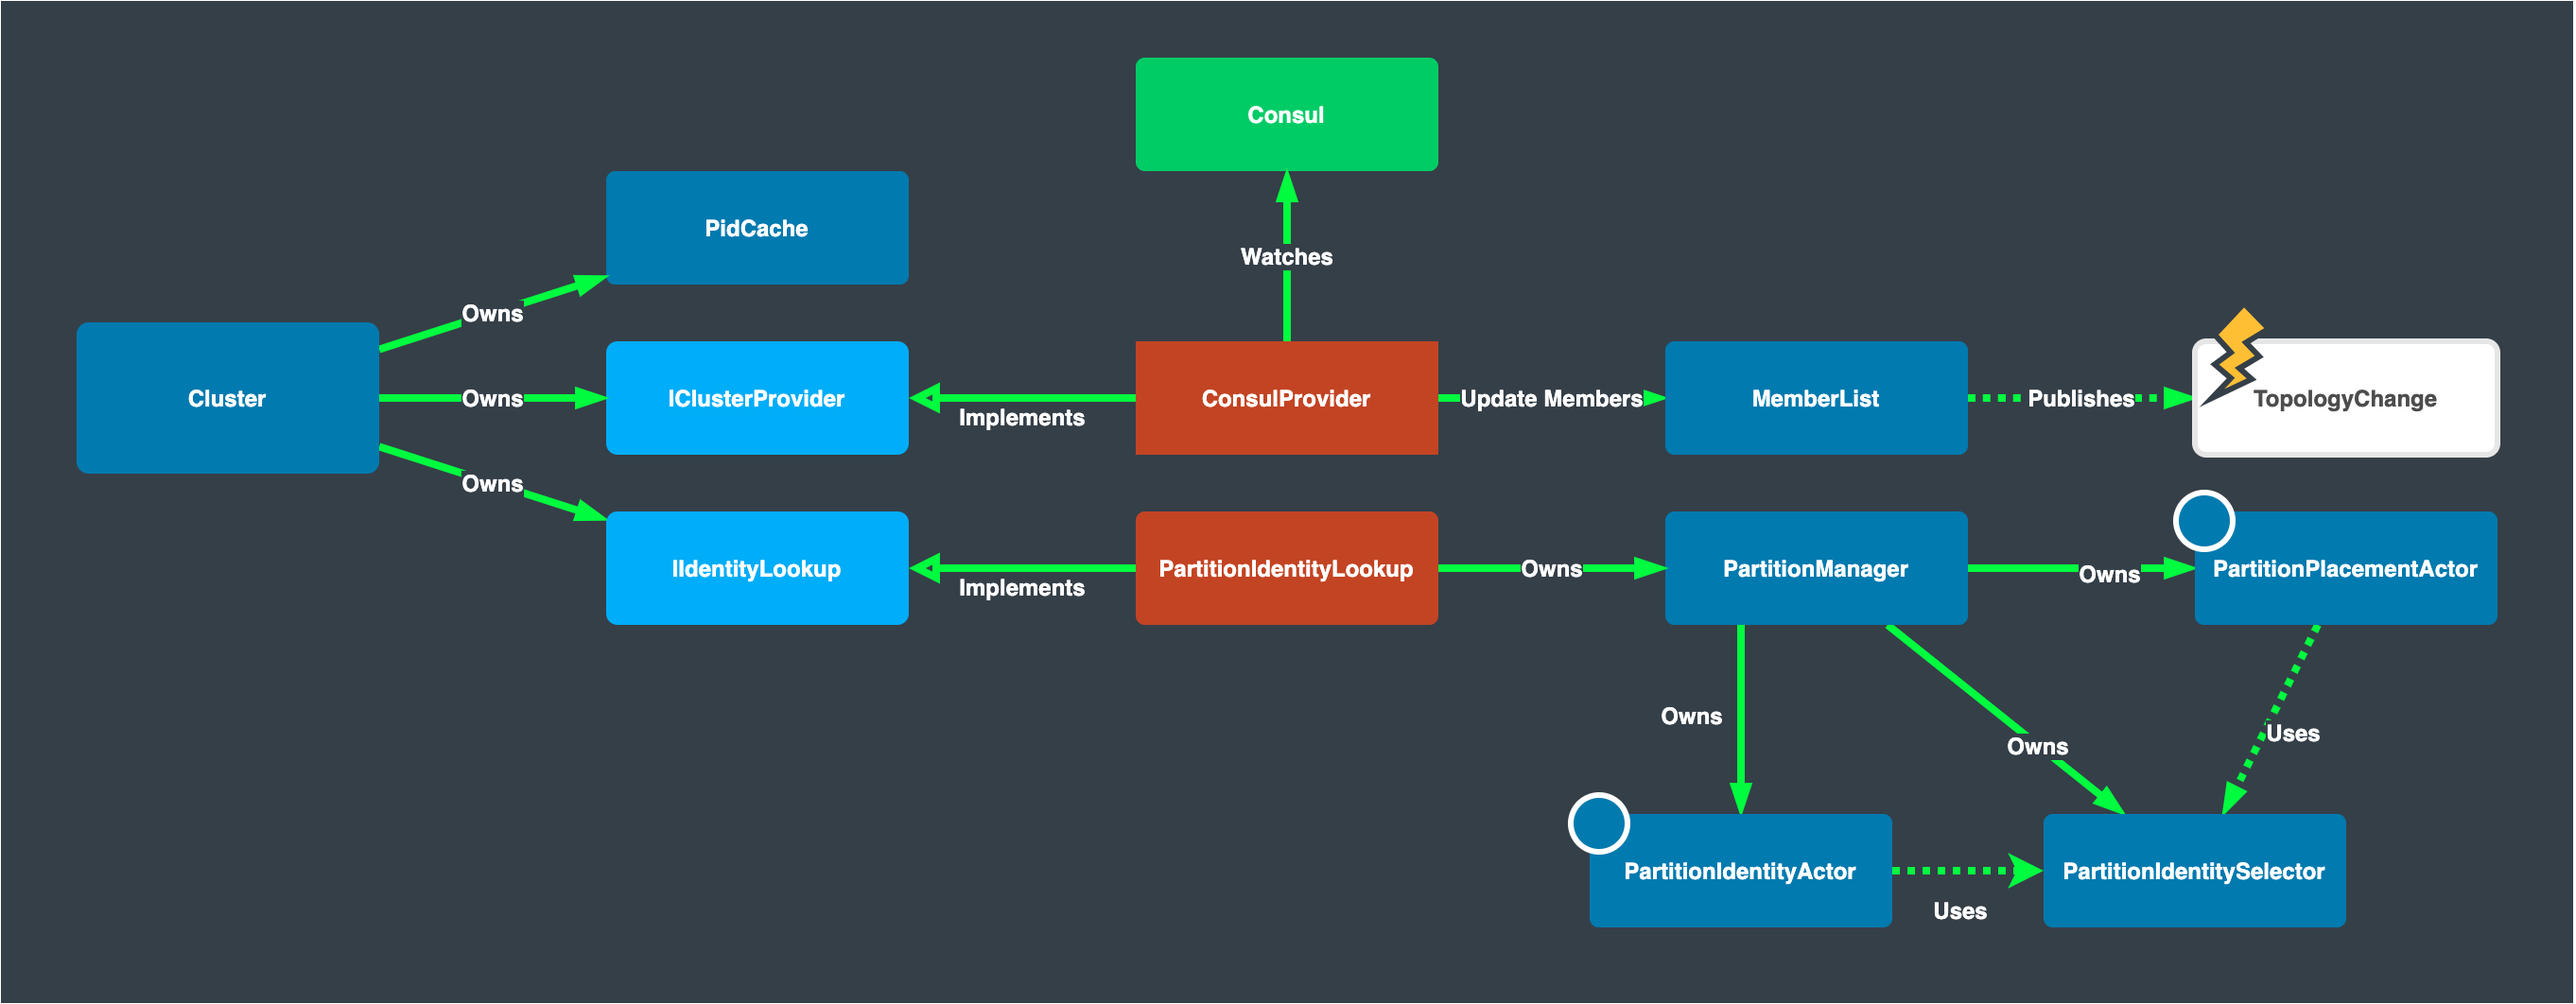
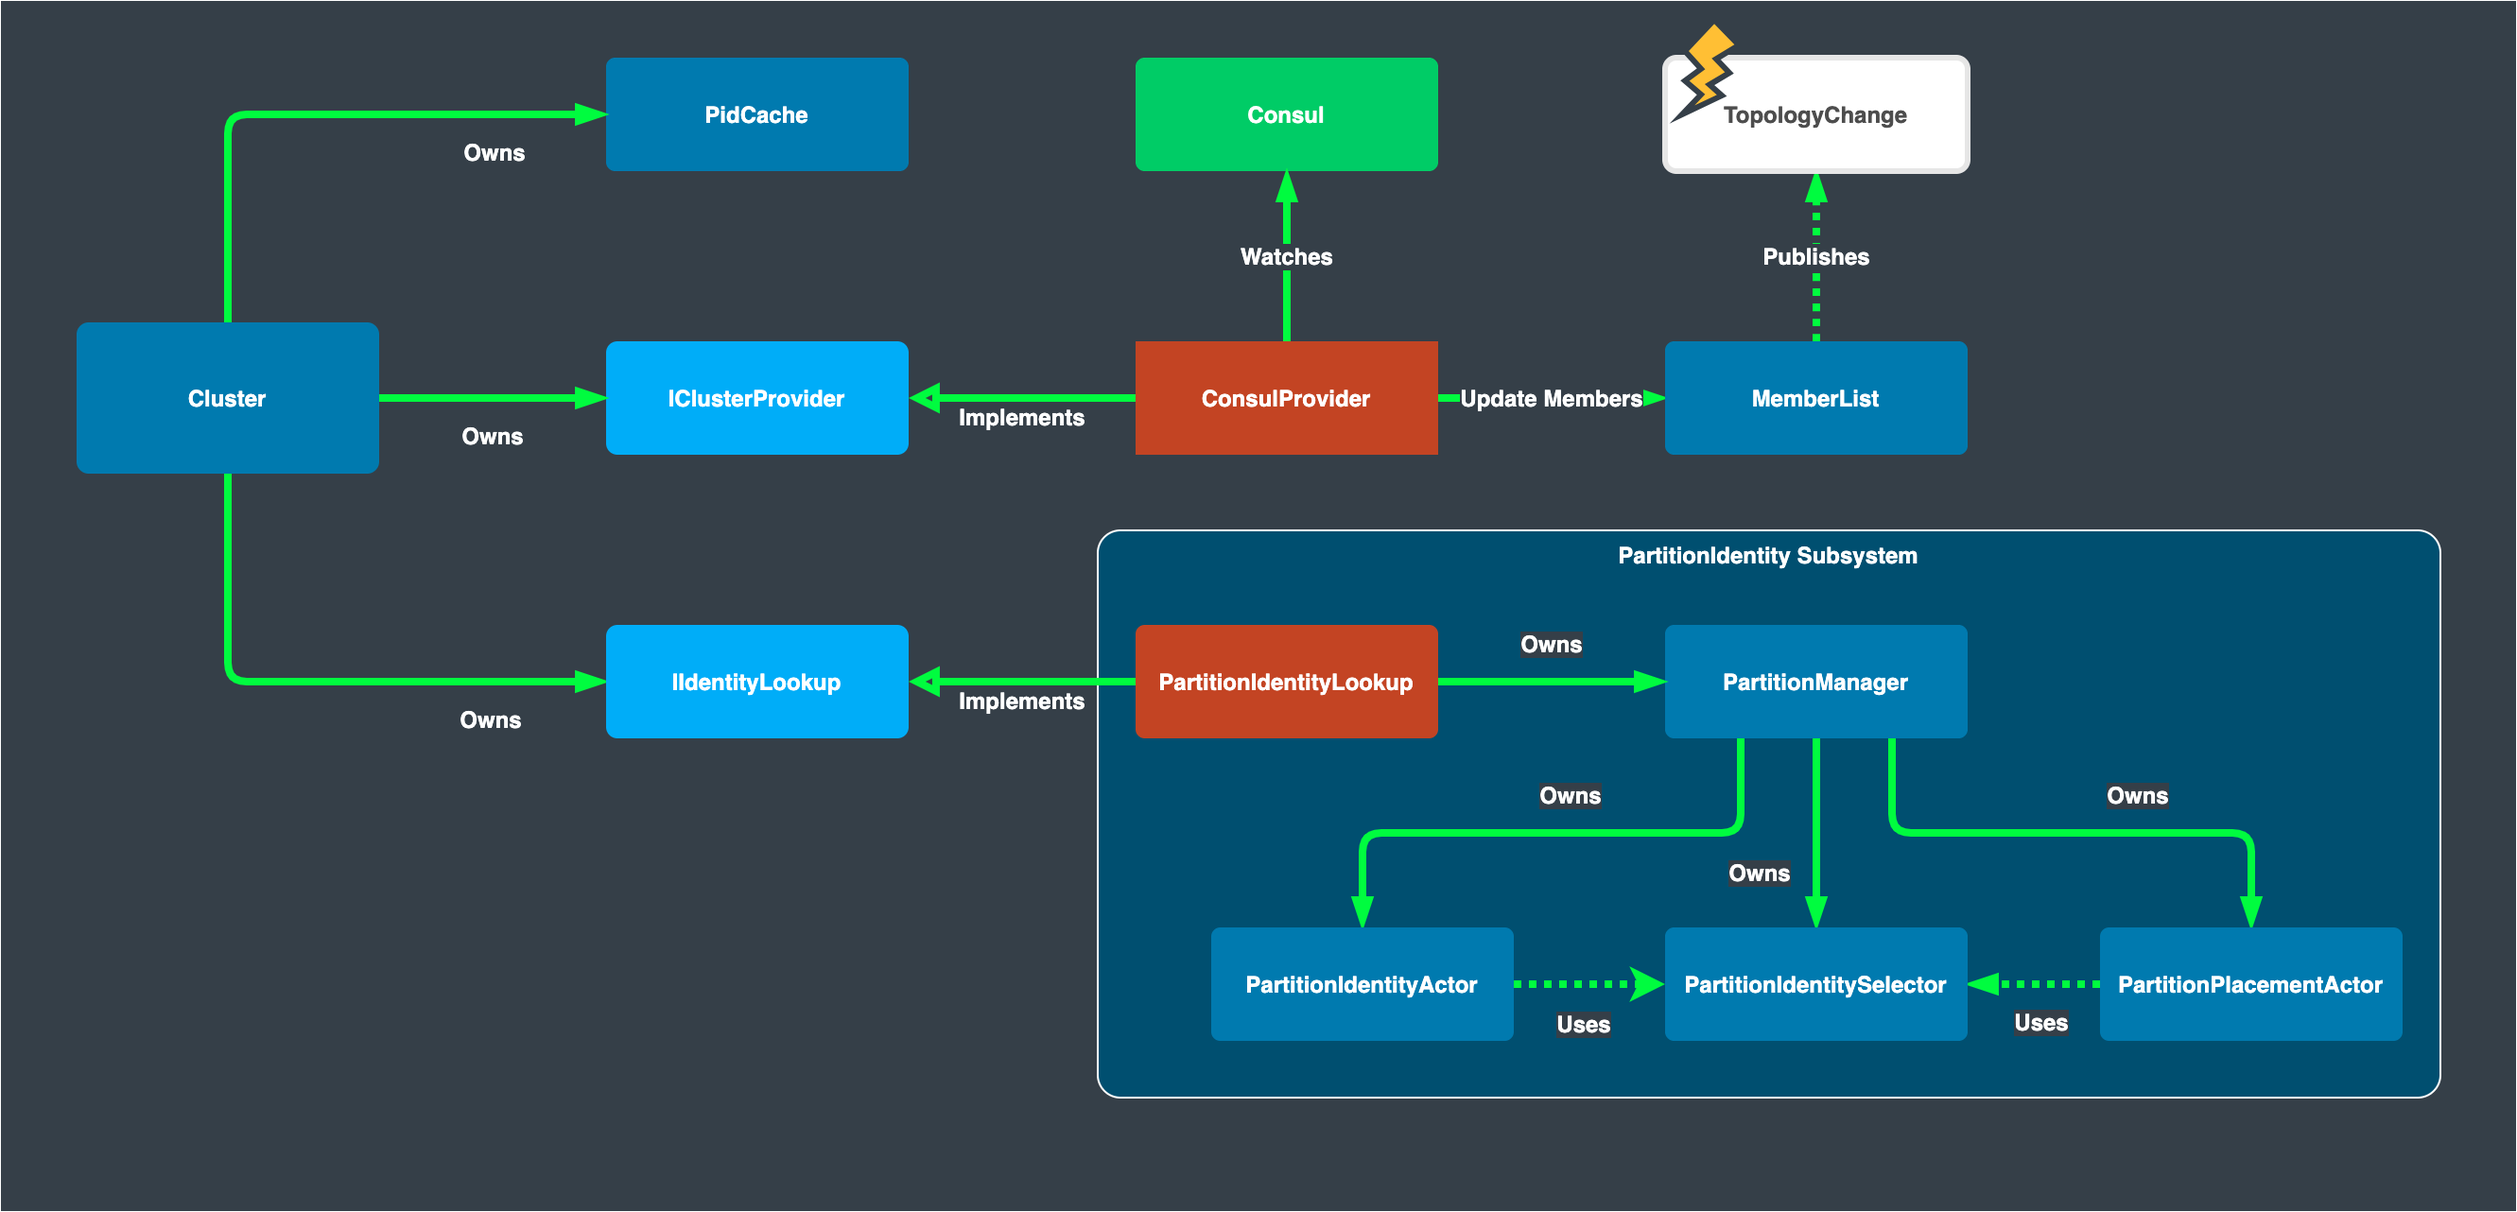
.

diff --git a/hugo/content/docs/cluster.md b/hugo/content/docs/cluster.md
@@ -38,26 +38,20 @@ See [Cluster Partitions](cluster-partitions.md)
 
 ![Cluster Architecture](/images/cluster-architecture.png)
 
-#### TopologyChange
-
-Consumed by all aspects of the cluster infrastructure to update caches, lookups, shutting down connections etc.
-
-#### PartitionPlacementActor
-
-This actor manages the actual actor instances. it also knows which node owns the identity and can transfer actor identitiy ownership when topology changes
-
-#### PartitionIdentitySelector
-
-The hashing algorithm that decides the relation between Identity and Member
-
-#### PartitionIdentityActor
-
-Manages the owned identities for a member.
-
-#### IIdentityLookup:
-
+### IIdentityLookup:
 This allows the identity lookup strategy to be replaced.
 The built in, default is the PartitionIdentityLookup.
+
+#### PartitionIdentitySelector
+The hashing algorithm that decides the relation between Identity and Member
+
+#### PartitionPlacementActor
+This actor manages the actual actor instances. it also knows which node owns the identity and can transfer actor identitiy ownership when topology changes
+
+#### PartitionIdentityActor
+Manages the owned identities for a member.
+### TopologyChange
+Consumed by all aspects of the cluster infrastructure to update caches, lookups, shutting down connections etc.
 
 
 ## Tutorials
